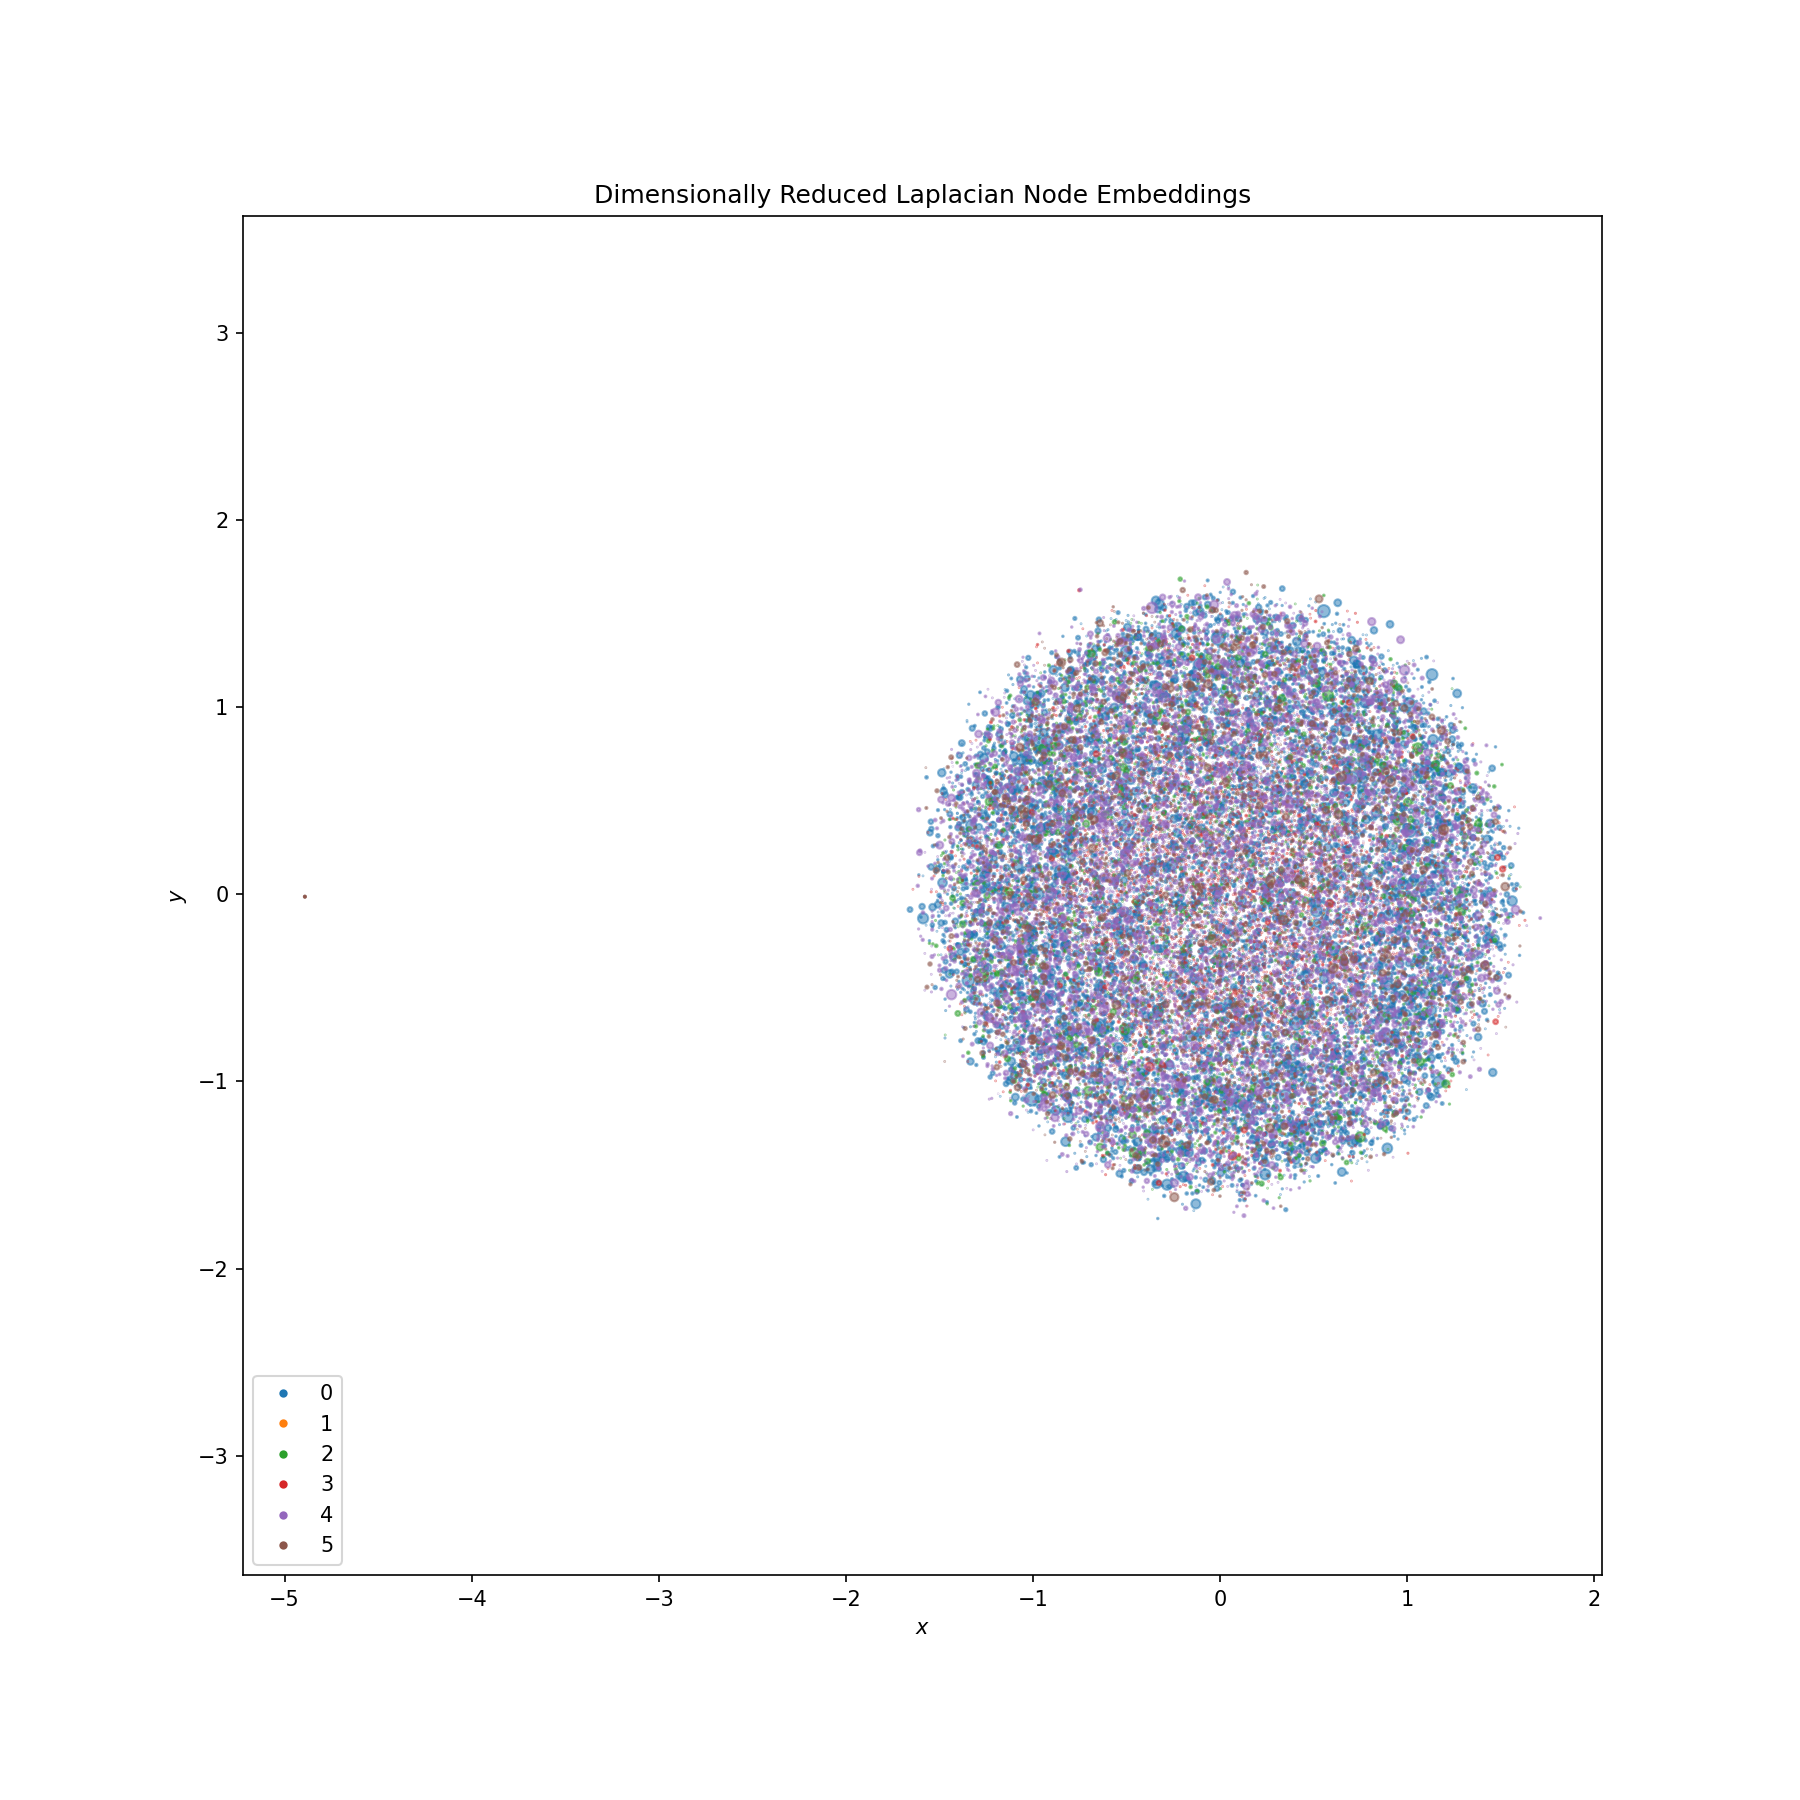
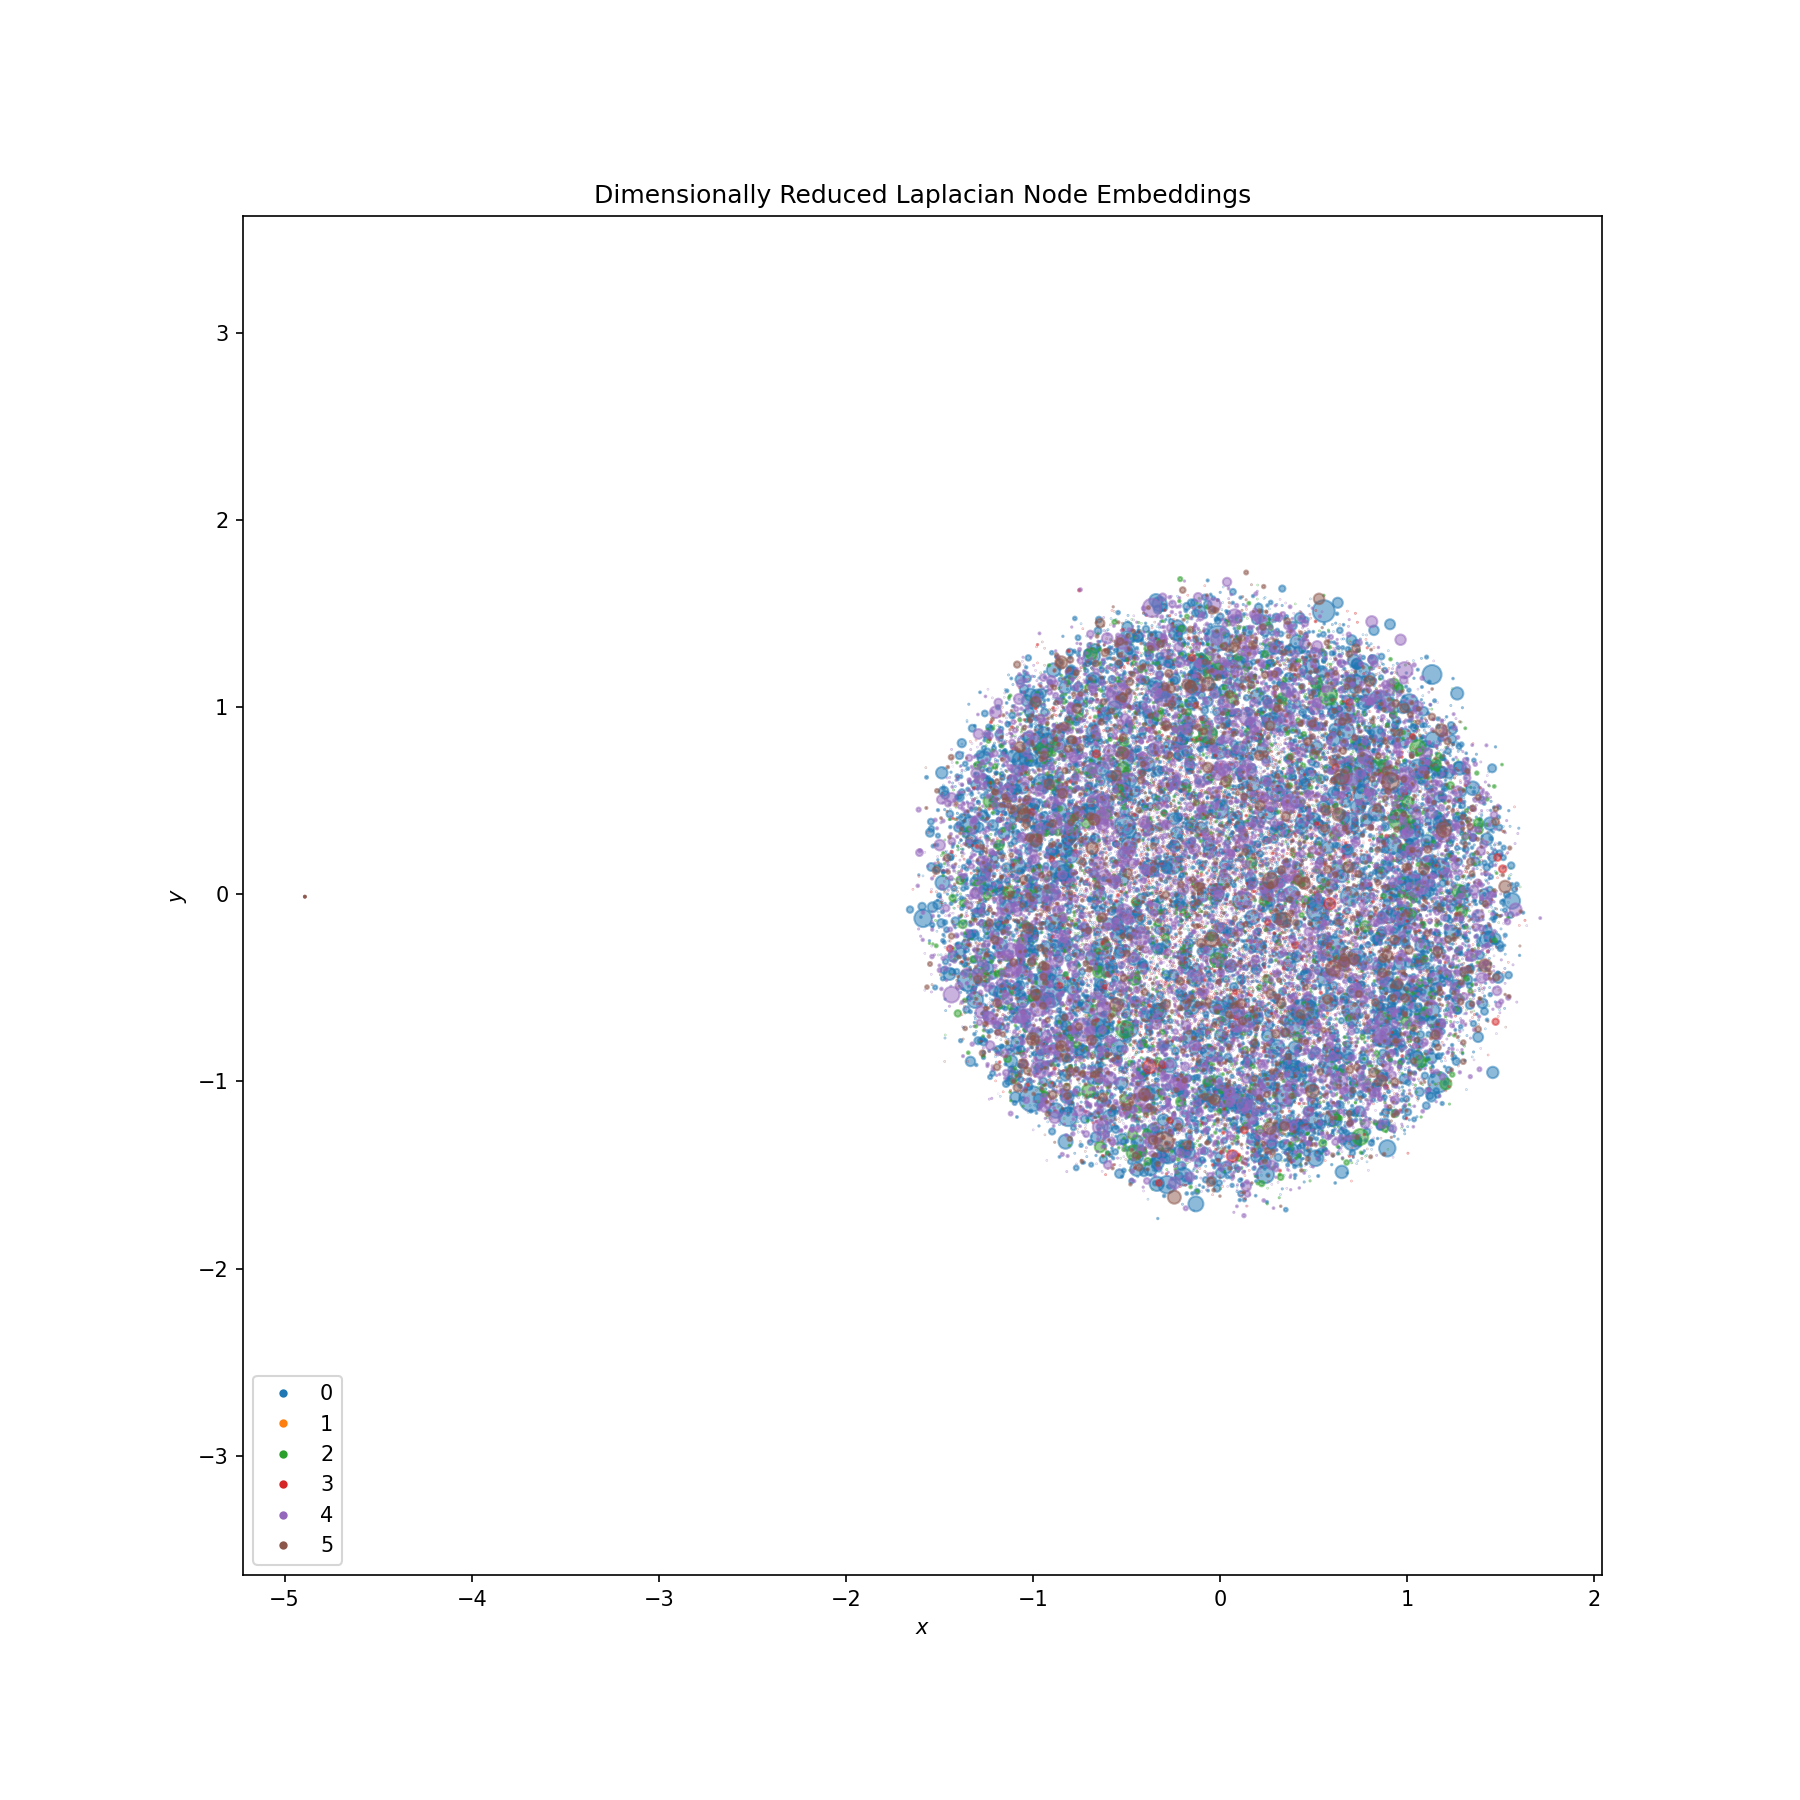
Generated node embeddings on sphere

Changed region(s): [[0.4978, 0.3111, 0.84, 0.6844]]

diff --git a/BIO/emmaa_2_layout-clustering.py b/BIO/emmaa_2_layout-clustering.py
@@ -151,25 +151,18 @@ emlib.plot_emb(coor = posNodes, labels = clusterID, cmap_name = 'qual', colorbar
 
 # %%
 # 2D projection
-fig = plt.figure(figsize = (12, 12))
-ax = fig.add_subplot(111)
-emlib.plot_emb(coor = posNodes[:, :2], labels = clusterID, marker_size = np.log10(nodeDegreeCounts.sum(axis = 1) + 2) ** 3, marker_alpha = 0.5, ax = ax, cmap_name = 'qual', colorbar = True, str_title = 'Dimensionally Reduced Laplacian Node Embeddings')
+fig, ax = emlib.plot_emb(coor = posNodes[:, :2], labels = clusterID, marker_size = np.log10(nodeDegreeCounts.sum(axis = 1) + 2) ** 4, marker_alpha = 0.5, cmap_name = 'qual', colorbar = True, str_title = 'Dimensionally Reduced Laplacian Node Embeddings')
 
 fig.savefig('./figures/nodeLaplacianDimRed_2D.png', dpi = 150)
 
 # %%
 # Full 3D
-fig = plt.figure(figsize = (12, 12))
-ax = fig.add_subplot(111, projection = '3d')
-emlib.plot_emb(coor = posNodes, labels = clusterID, marker_size = np.log10(nodeDegreeCounts.sum(axis = 1) + 2) ** 3, marker_alpha = 0.1, ax = ax, cmap_name = 'qual', colorbar = True, str_title = 'Dimensionally Reduced Laplacian Node Embeddings')
+fig, ax = emlib.plot_emb(coor = posNodes, labels = clusterID, marker_size = np.log10(nodeDegreeCounts.sum(axis = 1) + 2) ** 4, marker_alpha = 0.1, cmap_name = 'qual', colorbar = True, str_title = 'Dimensionally Reduced Laplacian Node Embeddings')
 
 fig.savefig('./figures/nodeLaplacianDimRed_3D.png', dpi = 150)
 
 # %%[markdown]
 # ## Output results
-
-
-
 
 # %%[markdown]
 # ```
@@ -222,19 +215,54 @@ with open('./dist/nodeClusters.pkl', 'wb') as x:
     pickle.dump(outputClusters, x)
 
 # %%[markdown]
-# ## Experiment: Dimensional Reduction on Spherical Metric
+# ## Experiment: Dimensional Reduction on a Sphere
 
 %%time
 
-numDimEmb = 3
+numDimEmb = 2
 # modelUMAP = umap.UMAP(n_components = numDimEmb, n_neighbors = 10, min_dist = 0.05, metric = 'euclidean', random_state = 0)
 modelUMAP_sph = umap.UMAP(n_components = numDimEmb, n_neighbors = 10, min_dist = 0.05, metric = 'minkowski', metric_kwds = {'p': 2.0/3.0}, random_state = 0, output_metric = 'haversine')
 posNodes_sph = modelUMAP_sph.fit_transform(L.tolil(copy = False))
 
-posCentroid_sph = np.median(posNodes_sph, axis = 0)
-posNodes_sph = posNodes_sph - posCentroid_sph
+# %%
+# Transform to Cartesian coordinates
+posNodes_sphCart = np.empty((posNodes_sph.shape[0], 3))
+posNodes_sphCart[:, 0] = np.sin(posNodes_sph[:, 0]) * np.cos(posNodes_sph[:, 1])
+posNodes_sphCart[:, 1] = np.sin(posNodes_sph[:, 0]) * np.sin(posNodes_sph[:, 1])
+posNodes_sphCart[:, 2] = np.cos(posNodes_sph[:, 0])
 
+# %%
+# Plot result
 
+fig, ax = emlib.plot_emb(coor = posNodes_sphCart, labels = clusterID, marker_size = np.log10(nodeDegreeCounts.sum(axis = 1) + 2) ** 4, marker_alpha = 0.5, cmap_name = 'qual', colorbar = True, str_title = 'Dimensionally Reduced Laplacian Node Embeddings')
 
+fig.savefig('./figures/nodeLaplacianDimRed_sph.png', dpi = 150)
 
+# %%
 
+outputNodes = [
+    {
+        'id': int(node['id']),
+        'x': float(posNodes_sphCart[i, 0]),
+        'y': float(posNodes_sphCart[i, 1]),
+        'z': float(posNodes_sphCart[i, 2]), 
+        'clusterID': [int(clusterID[i])], 
+        'clusterScore': [float(0.0)]
+    }
+    for i, node in enumerate(nodes)]
+
+with open('./dist/nodeLayoutClustering_sphCart.jsonl', 'w') as x:
+    for i in outputNodes:
+        json.dump(i, x)
+        x.write('\n')
+
+with open('./dist/nodeLayoutClustering_sphCart.pkl', 'wb') as x:
+    pickle.dump(outputNodes, x)
+
+outputClusters = [
+    {
+        'clusterID': int(i),
+        'clusterLabel': c
+    }
+    for i, c in enumerate(clusterLabel)
+]

diff --git a/BIO/emmaa_lib.py b/BIO/emmaa_lib.py
@@ -230,3 +230,6 @@ def plot_emb(coor = np.array([]), labels = [], marker_size = 2.0, marker_alpha =
     if (cmap_name != 'qual') and (colorbar == True): 
         plt.colorbar(plt_obj, ax = plt.getp(fig, 'axes'), extend = 'max', shrink = 0.85)
 
+
+    return fig, ax
+
